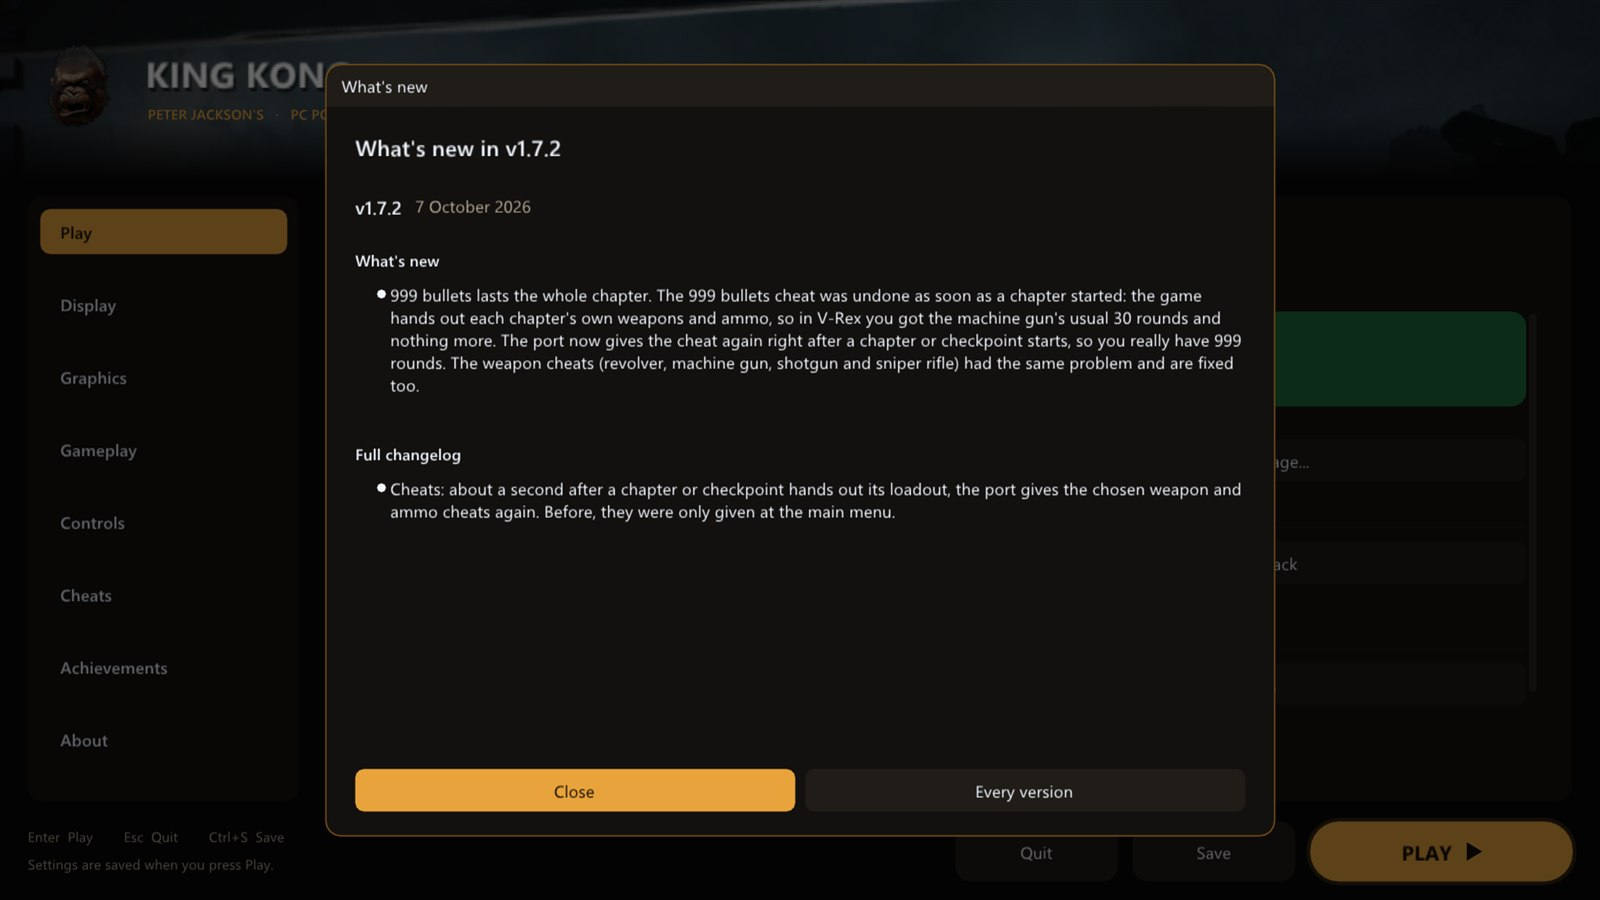
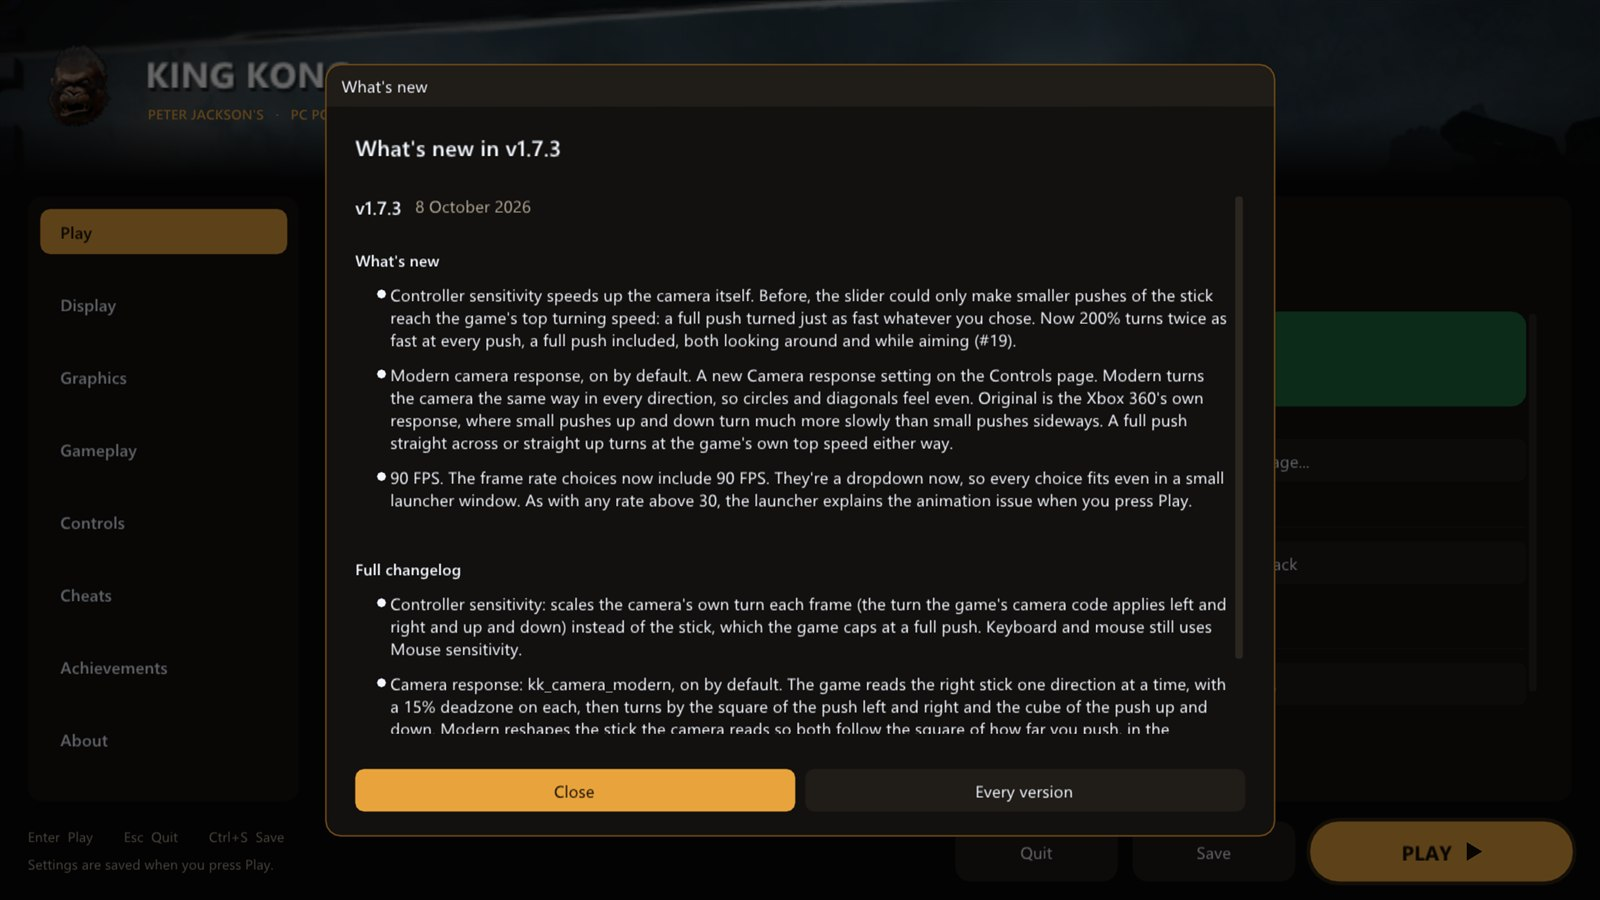
v1.7.3: version, release notes, changelog, screenshots

Changed region(s): [[0.2188, 0.3111, 0.7812, 0.5911], [0.2188, 0.6222, 0.7812, 0.84]]

diff --git a/.github/release-notes.md b/.github/release-notes.md
@@ -1,18 +1,20 @@
-## Peter Jackson's King Kong PC Port v1.7.2
+## Peter Jackson's King Kong PC Port v1.7.3
 
 ### What's new
-- **999 bullets lasts the whole chapter.** The **999 bullets** cheat was undone as soon as a chapter started: the game hands out each chapter's own weapons and ammo, so in V-Rex you got the machine gun's usual 30 rounds and nothing more. The port now gives the cheat again right after a chapter or checkpoint starts, so you really have 999 rounds. The weapon cheats (revolver, machine gun, shotgun and sniper rifle) had the same problem and are fixed too.
+- **Controller sensitivity speeds up the camera itself.** Before, the slider could only make smaller pushes of the stick reach the game's top turning speed: a full push turned just as fast whatever you chose. Now 200% turns twice as fast at every push, a full push included, both looking around and while aiming (#19).
+- **Modern camera response, on by default.** A new **Camera response** setting on the **Controls** page. **Modern** turns the camera the same way in every direction, so circles and diagonals feel even. **Original** is the Xbox 360's own response, where small pushes up and down turn much more slowly than small pushes sideways. A full push straight across or straight up turns at the game's own top speed either way.
+- **90 FPS.** The frame rate choices now include 90 FPS. They're a dropdown now, so every choice fits even in a small launcher window. As with any rate above 30, the launcher explains the animation issue when you press Play.
 
 ### Full changelog
-- Cheats: about a second after a chapter or checkpoint hands out its loadout, the port gives the chosen weapon and ammo cheats again. Before, they were only given at the main menu.
+- Controller sensitivity: scales the camera's own turn each frame (the turn the game's camera code applies left and right and up and down) instead of the stick, which the game caps at a full push. Keyboard and mouse still uses **Mouse sensitivity**.
+- Camera response: `kk_camera_modern`, on by default. The game reads the right stick one direction at a time, with a 15% deadzone on each, then turns by the square of the push left and right and the cube of the push up and down. Modern reshapes the stick the camera reads so both follow the square of how far you push, in the direction you push. A half push now gives a quarter of the top speed in any direction; before, it was 17% left and right and 7% up and down.
+- Frame rate: 90 added to `kk_frame_rate`'s choices, and the setting is a dropdown.
 
 ### How to update
-If you have v1.4.0 or later, the launcher offers this update when it opens: click **Update now**. Otherwise download **KingKong-v1.7.2-windows-x64.zip** below and copy everything in it over your KingKong folder. Shader pack 2 is still the latest.
-
-New in v1.7.0, if you skipped it: a field of view slider, controller sensitivity that works up and down, a motion blur switch, skipping the startup logos, a Reset page button on every settings page, and the What's new pop-up. See the [v1.7.0 release](https://github.com/TekRantGaming/king-kong-recompiled/releases/tag/v1.7.0).
+If you have v1.4.0 or later, the launcher offers this update when it opens: click **Update now**. Otherwise download **KingKong-v1.7.3-windows-x64.zip** below and copy everything in it over your KingKong folder. Shader pack 2 is still the latest.
 
 ### New install
-1. Unzip **KingKong-v1.7.2-windows-x64.zip** anywhere and run **king_kong.exe**.
+1. Unzip **KingKong-v1.7.3-windows-x64.zip** anywhere and run **king_kong.exe**.
 2. Click **Install from disc image...** and pick your own King Kong disc image (USA/Europe, title ID `555307D3`, version `0.0.0.1`).
 3. Click **Download shader pack**.
 4. Press **PLAY**.

diff --git a/CHANGELOG.md b/CHANGELOG.md
@@ -3,6 +3,18 @@
 Every release of the King Kong PC port, newest first. The launcher shows this on its About page, and a
 version's notes the first time you start it.
 
+## v1.7.3 (8 October 2026)
+
+### What's new
+- **Controller sensitivity speeds up the camera itself.** Before, the slider could only make smaller pushes of the stick reach the game's top turning speed: a full push turned just as fast whatever you chose. Now 200% turns twice as fast at every push, a full push included, both looking around and while aiming (#19).
+- **Modern camera response, on by default.** A new **Camera response** setting on the **Controls** page. **Modern** turns the camera the same way in every direction, so circles and diagonals feel even. **Original** is the Xbox 360's own response, where small pushes up and down turn much more slowly than small pushes sideways. A full push straight across or straight up turns at the game's own top speed either way.
+- **90 FPS.** The frame rate choices now include 90 FPS. They're a dropdown now, so every choice fits even in a small launcher window. As with any rate above 30, the launcher explains the animation issue when you press Play.
+
+### Full changelog
+- Controller sensitivity: scales the camera's own turn each frame (the turn the game's camera code applies left and right and up and down) instead of the stick, which the game caps at a full push. Keyboard and mouse still uses **Mouse sensitivity**.
+- Camera response: `kk_camera_modern`, on by default. The game reads the right stick one direction at a time, with a 15% deadzone on each, then turns by the square of the push left and right and the cube of the push up and down. Modern reshapes the stick the camera reads so both follow the square of how far you push, in the direction you push. A half push now gives a quarter of the top speed in any direction; before, it was 17% left and right and 7% up and down.
+- Frame rate: 90 added to `kk_frame_rate`'s choices, and the setting is a dropdown.
+
 ## v1.7.2 (7 October 2026)
 
 ### What's new
